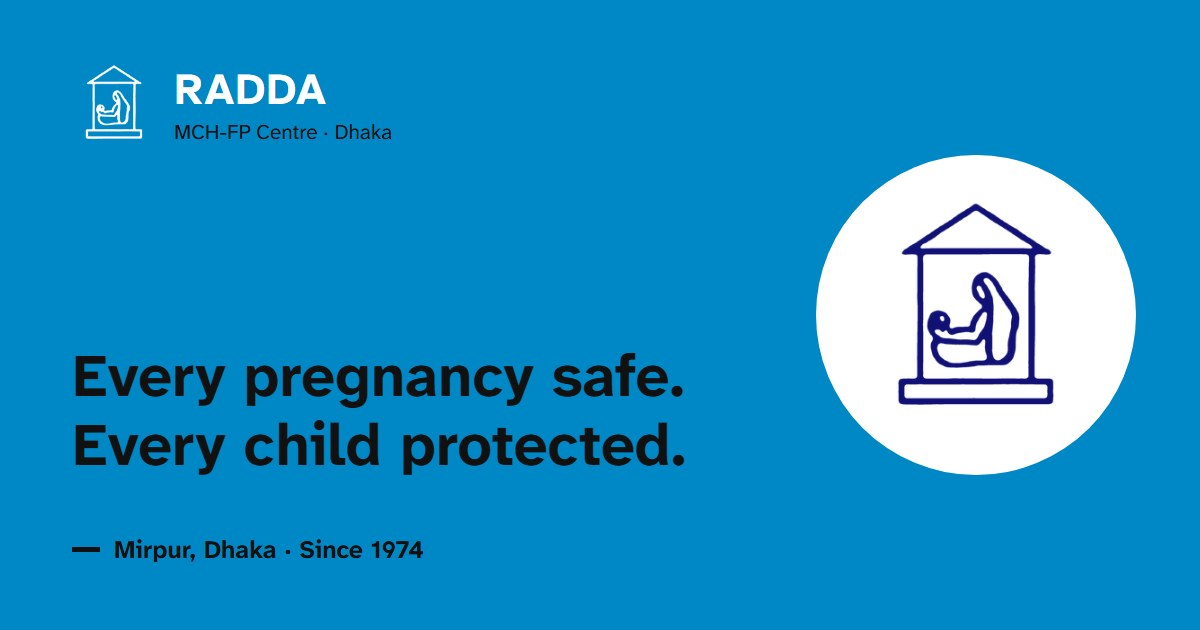
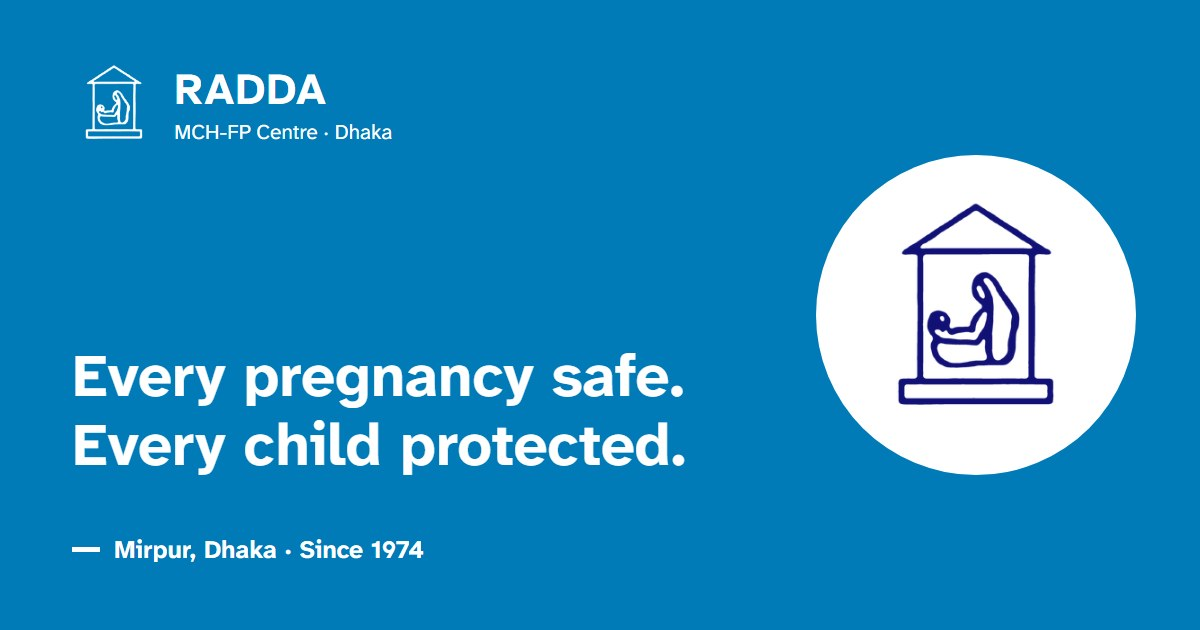
feat: white text on blue, and "Donate" in place of "Help rebuild Radda"
- Every blue surface (header band, hero panel, page headers, figure bands,
  footer, contact panel) now carries white text. The blue is a step deeper
  (#007bb8) so white text keeps a 4.6:1 contrast.
- The appeal button, links, slide and page title read "Donate"; in the
  header it is the accent button.
- Fix: the home page figures no longer overflow on phones in Bangla.

Changed region(s): [[0.0617, 0.5429, 0.5858, 0.754], [0.0617, 0.8444, 0.37, 0.9048], [0.1542, 0.181, 0.3392, 0.2413]]

diff --git a/src/assets/css/site.css b/src/assets/css/site.css
@@ -14,9 +14,12 @@
 
 /* 1. Tokens --------------------------------------------------------------- */
 :root {
-  --blue: #0087c5;            /* the brand colour; always carries black text, never white */
+  --blue: #007bb8;            /* the brand colour; it always carries white text */
   --blue-50: #e1f1f9;
-  --ink: #111111;
+  --black: #111111;
+  --ink: #111111;             /* text colour; white inside blue surfaces (see "White text on every blue surface") */
+  --hover-bg: var(--black);
+  --hover-fg: #fff;
   --body: #1f1f1f;
   --muted: #595959;
   --grey: #f1f1f1;            /* section background behind white cards */
@@ -58,7 +61,7 @@ table { border-collapse: collapse; width: 100%; }
 /* Black ring with a white halo: visible on white, on cyan and on the dark bar alike. */
 :focus-visible { outline: 3px solid var(--ink); outline-offset: 2px; box-shadow: 0 0 0 5px #fff; border-radius: 2px; }
 [hidden] { display: none !important; }
-::selection { background: var(--blue); color: var(--ink); }
+::selection { background: var(--blue); color: #fff; }
 
 .container { width: 100%; max-width: calc(var(--max) + var(--gutter) * 2); margin-inline: auto; padding-inline: var(--gutter); }
 .skip { position: absolute; left: 12px; top: -80px; z-index: 100; background: var(--ink); color: #fff; padding: 12px 18px; font-weight: 700; text-decoration: none; }
@@ -101,10 +104,10 @@ table { border-collapse: collapse; width: 100%; }
   transition: background-color .15s ease, color .15s ease, border-color .15s ease;
 }
 .btn svg { width: 1.1em; height: 1.1em; flex: none; }
-.btn-primary { background: var(--blue); border-color: var(--blue); color: var(--ink); }
+.btn-primary { background: var(--blue); border-color: var(--blue); color: #fff; }
 .btn-white { background: #fff; border-color: #fff; color: var(--ink); box-shadow: var(--card-shadow); }
 .btn-outline { border-color: var(--ink); color: var(--ink); background: transparent; }
-.btn-primary:hover, .btn-white:hover, .btn-outline:hover { background: var(--ink); border-color: var(--ink); color: #fff; }
+.btn-primary:hover, .btn-white:hover, .btn-outline:hover { background: var(--hover-bg); border-color: var(--hover-bg); color: var(--hover-fg); }
 .btn-accent { background: #fff; border-color: #fff; color: var(--accent); box-shadow: var(--card-shadow); }
 .btn-accent:hover { background: var(--accent); border-color: var(--accent); color: #fff; }
 .btn-wa { background: var(--wa); border-color: var(--wa); color: #fff; }
@@ -149,7 +152,7 @@ table { border-collapse: collapse; width: 100%; }
 .search-btn { display: none; place-items: center; }
 .js .search-btn { display: grid; }
 .search-btn svg { width: 24px; height: 24px; }
-.search-btn:hover, .menu-btn:hover { background: var(--ink); color: #fff; }
+.search-btn:hover, .menu-btn:hover { background: var(--hover-bg); color: var(--hover-fg); }
 .band-search, .menu-btn { display: none !important; }
 .menu-btn { position: relative; }
 .menu-btn span { position: absolute; left: 10px; right: 10px; height: 3px; background: currentColor; transition: transform .2s ease, top .2s ease; }
@@ -182,7 +185,7 @@ table { border-collapse: collapse; width: 100%; }
 .slide-panel .btn { margin-top: 8px; }
 .carousel-controls { position: absolute; right: 0; bottom: 0; width: calc(100% / 3); display: flex; align-items: center; gap: 8px; padding: 0 clamp(24px, 3vw, 44px) 28px; }
 .carousel-btn { flex: none; width: 40px; height: 40px; display: grid; place-items: center; border: 2.5px solid var(--ink); border-radius: var(--radius); background: transparent; color: var(--ink); cursor: pointer; transition: background-color .15s ease, color .15s ease; }
-.carousel-btn:hover { background: var(--ink); color: #fff; }
+.carousel-btn:hover { background: var(--hover-bg); color: var(--hover-fg); }
 .carousel-btn svg { width: 20px; height: 20px; }
 .carousel-btn[aria-pressed="true"] .i-pause, .carousel-btn[aria-pressed="false"] .i-play { display: none; }
 .dots { display: flex; gap: 8px; margin-left: auto; }
@@ -197,7 +200,7 @@ table { border-collapse: collapse; width: 100%; }
 a.q:hover { background: var(--grey); color: var(--body); }
 a.q:hover strong { text-decoration: underline; }
 a.q:focus-visible { outline-offset: -5px; box-shadow: none; }
-.q-ico { flex: none; width: 46px; height: 46px; border-radius: 50%; display: grid; place-items: center; background: var(--blue); color: var(--ink); }
+.q-ico { flex: none; width: 46px; height: 46px; border-radius: 50%; display: grid; place-items: center; background: var(--blue); color: #fff; }
 .q-ico svg { width: 22px; height: 22px; }
 .q.is-open .q-ico { background: var(--green-50); color: var(--green); }
 .q.is-closed .q-ico { background: var(--red-50); color: var(--red); }
@@ -225,7 +228,7 @@ a.q:focus-visible { outline-offset: -5px; box-shadow: none; }
 .card { position: relative; display: flex; flex-direction: column; color: inherit; text-decoration: none; overflow: hidden; }
 .card .photo { aspect-ratio: 4 / 3; }
 .card .body { display: flex; flex-direction: column; flex: 1; padding: 20px 20px 22px; }
-.card-ico, .svc-ico, .pin { flex: none; display: grid; place-items: center; border-radius: 50%; background: var(--blue); color: var(--ink); }
+.card-ico, .svc-ico, .pin { flex: none; display: grid; place-items: center; border-radius: 50%; background: var(--blue); color: #fff; }
 .card-ico { width: 52px; height: 52px; margin-bottom: 18px; }
 .card-ico svg { width: 26px; height: 26px; }
 .card h3 { margin-bottom: 10px; }
@@ -248,7 +251,7 @@ a.card:hover { color: inherit; }
 
 .figures-wrap { background: var(--blue); color: var(--ink); }
 .figures { display: grid; grid-template-columns: repeat(4, 1fr); }
-.figure { padding: 4px clamp(16px, 2.4vw, 32px); border-left: 2px solid rgba(17, 17, 17, .28); }
+.figure { padding: 4px clamp(16px, 2.4vw, 32px); border-left: 2px solid rgba(255, 255, 255, .45); }
 .figure:first-child { padding-left: 0; border-left: 0; }
 .figure .n { font-size: clamp(2.1rem, 3.9vw, 3.25rem); font-weight: 700; line-height: 1; color: var(--ink); font-variant-numeric: tabular-nums; }
 .figure .n sup { font-size: .5em; vertical-align: top; position: relative; top: .2em; }
@@ -284,7 +287,7 @@ a.card:hover { color: inherit; }
 .news-item:hover h3 a { text-decoration: underline; }
 .news-item p { margin: 0; font-size: 1rem; }
 /* Impact page: figures on white, stat cards, bar charts, funding, partners */
-.figures-foot { display: flex; flex-wrap: wrap; align-items: center; justify-content: space-between; gap: 12px 24px; margin-top: clamp(24px, 3vw, 36px); padding-top: 18px; border-top: 2px solid rgba(17, 17, 17, .28); font-size: 1rem; }
+.figures-foot { display: flex; flex-wrap: wrap; align-items: center; justify-content: space-between; gap: 12px 24px; margin-top: clamp(24px, 3vw, 36px); padding-top: 18px; border-top: 2px solid rgba(255, 255, 255, .45); font-size: 1rem; }
 .figures.on-white .figure { border-left-color: var(--line); }
 .figures.on-white .figure .n { color: var(--ink); box-shadow: inset 0 -.18em 0 var(--blue); display: inline-block; }
 .period { font-weight: 700; color: var(--ink); white-space: nowrap; }
@@ -405,8 +408,8 @@ a.card:hover { color: inherit; }
 .ward-group { margin-top: 18px; }
 .ward-group > b { display: block; margin-bottom: 8px; color: var(--ink); }
 .wards { display: flex; flex-wrap: wrap; gap: 8px; }
-.wards span { display: grid; place-items: center; width: 52px; height: 52px; background: var(--blue); color: var(--ink); font-weight: 700; font-size: 1.125rem; font-variant-numeric: tabular-nums; }
-.ward-group.south .wards span { background: var(--yellow); }
+.wards span { display: grid; place-items: center; width: 52px; height: 52px; background: var(--blue); color: #fff; font-weight: 700; font-size: 1.125rem; font-variant-numeric: tabular-nums; }
+.ward-group.south .wards span { background: var(--yellow); color: var(--black); }
 .staff-track { display: flex; height: 30px; margin: 14px 0 8px; }
 .students { display: grid; grid-template-columns: repeat(16, 1fr); gap: 4px; max-width: 440px; margin-top: 22px; }
 .student-women { background: var(--blue); }
@@ -470,7 +473,7 @@ a.card:hover { color: inherit; }
 .glance-side dd { display: flex; align-items: center; gap: 14px; }
 .glance-side .card-ico { margin: 0; width: 46px; height: 46px; }
 .glance-side .card-ico svg { width: 24px; height: 24px; }
-.cap-ico { display: inline-grid; place-items: center; width: 36px; height: 36px; margin-right: 10px; border-radius: 50%; background: var(--blue); color: var(--ink); vertical-align: middle; }
+.cap-ico { display: inline-grid; place-items: center; width: 36px; height: 36px; margin-right: 10px; border-radius: 50%; background: var(--blue); color: #fff; vertical-align: middle; }
 .cap-ico svg { width: 19px; height: 19px; }
 .target-head span { display: inline-flex; align-items: center; gap: 10px; }
 .mark { flex: none; display: grid; place-items: center; width: 24px; height: 24px; border-radius: 50%; background: var(--green); color: #fff; }
@@ -485,6 +488,21 @@ a.card:hover { color: inherit; }
 .infographic .targets li:first-child { border-top: 2px solid var(--ink); }
 .infographic .fund-row { padding: 18px 0 6px; border-top: 2px solid var(--ink); }
 .infographic .bar-track, .infographic .bars.wide-label .bar-track, .infographic .fund-track, .infographic .target-track { background: rgba(17, 17, 17, .1); }
+
+/* White text on every blue surface. Inside one, "ink" means white, so headings,
+   links, outlines and icons follow without a rule each; hovering turns a button
+   white with dark text instead of black with white. */
+.brand-band, .hero, .figures-wrap, .cta-photo, .band-wrap, .site-footer, .page-hero, .info-panel, .share-card, .notfound {
+  --ink: #fff; --body: #fff; --muted: rgba(255, 255, 255, .88); --link: #fff; --hover-bg: #fff; --hover-fg: var(--black);
+  color: #fff;
+}
+/* White islands inside a blue surface go back to dark text. */
+.btn-white, .btn-accent, .info-status, .urgent {
+  --ink: var(--black); --body: #1f1f1f; --muted: #595959; --hover-bg: var(--black); --hover-fg: #fff;
+}
+.info-status { color: var(--ink); }
+:is(.figures-wrap, .cta-photo, .band-wrap, .page-hero, .share-card) .eyebrow::before { background: #fff; }
+.info-panel table.hours th, .info-panel table.hours td { border-bottom-color: rgba(255, 255, 255, .4); }
 
 .news-item .go { width: 40px; height: 40px; display: grid; place-items: center; color: var(--ink); }
 .news-item .go svg { width: 22px; height: 22px; }
@@ -507,7 +525,7 @@ a.card:hover { color: inherit; }
 .band h2 { font-size: clamp(1.75rem, 2.9vw, 2.5rem); margin-bottom: 8px; }
 .band p { margin: 0; max-width: 44ch; }
 
-.site-footer { background: var(--blue); color: var(--ink); font-size: 1rem; border-top: 1px solid rgba(17, 17, 17, .25); }
+.site-footer { background: var(--blue); font-size: 1rem; border-top: 1px solid rgba(255, 255, 255, .35); }
 .site-footer .top { display: grid; grid-template-columns: 1.5fr 1fr 1fr 1.2fr; gap: clamp(24px, 4vw, 56px); padding-block: clamp(36px, 5vw, 60px) 36px; }
 .site-footer .logo-text strong { color: #fff; }
 .site-footer .top > div:first-child p { margin: 18px 0 20px; max-width: 34ch; }
@@ -516,10 +534,10 @@ a.card:hover { color: inherit; }
 .site-footer a { color: var(--ink); text-decoration: none; }
 .site-footer a:hover { text-decoration: underline; }
 .social { display: flex; gap: 8px; }
-.social a { width: 42px; height: 42px; border-radius: 50%; display: grid; place-items: center; background: var(--ink); color: #fff; }
-.social a:hover { background: #fff; color: var(--ink); }
+.social a { width: 42px; height: 42px; border-radius: 50%; display: grid; place-items: center; background: #fff; color: var(--blue); }
+.social a:hover { background: var(--black); color: #fff; }
 .social svg { width: 20px; height: 20px; fill: currentColor; }
-.site-footer .bottom { display: flex; flex-wrap: wrap; justify-content: space-between; gap: 8px 24px; padding-block: 18px; border-top: 1px solid rgba(17, 17, 17, .3); font-size: .875rem; }
+.site-footer .bottom { display: flex; flex-wrap: wrap; justify-content: space-between; gap: 8px 24px; padding-block: 18px; border-top: 1px solid rgba(255, 255, 255, .35); font-size: .875rem; }
 .mbar { display: none; }
 
 /* 8. Inner pages ---------------------------------------------------------- */
@@ -573,13 +591,13 @@ table.data td:first-child { font-weight: 700; color: var(--ink); }
 .pin { width: 46px; height: 46px; }
 .pin svg { width: 22px; height: 22px; }
 .place .pin { margin-bottom: 18px; }
-.place:first-child .pin { background: var(--yellow); }
+.place:first-child .pin { background: var(--yellow); color: var(--black); }
 .place h3 { margin-bottom: 6px; }
 .place p { margin: 0; font-size: 1rem; }
 .trustees-note { margin-top: 14px; }
 .people { display: grid; grid-template-columns: repeat(2, minmax(0, 1fr)); gap: 14px; }
 .person { display: flex; align-items: center; gap: 16px; padding: 14px 18px; }
-.person i { flex: none; width: 56px; height: 56px; border-radius: 50%; display: grid; place-items: center; background: var(--blue); color: var(--ink); font-size: .95rem; font-weight: 700; font-style: normal; }
+.person i { flex: none; width: 56px; height: 56px; border-radius: 50%; display: grid; place-items: center; background: var(--blue); color: #fff; font-size: .95rem; font-weight: 700; font-style: normal; }
 .person img { flex: none; width: 56px; height: 56px; border-radius: 50%; object-fit: cover; background: var(--grey); }
 .person strong { display: block; font-size: 1.0625rem; line-height: 1.3; color: var(--ink); }
 .person span { font-size: .9375rem; color: var(--muted); }
@@ -598,7 +616,7 @@ table.data td:first-child { font-weight: 700; color: var(--ink); }
 .form-card > p { color: var(--muted); max-width: 58ch; margin-bottom: 24px; }
 .fieldset { border: 0; padding: 0; margin: 0 0 24px; min-width: 0; }
 .fieldset legend, .field label { display: block; padding: 0; font-weight: 700; font-size: 1rem; line-height: 1.3; color: var(--ink); margin-bottom: 10px; }
-.step { display: inline-grid; place-items: center; width: 26px; height: 26px; border-radius: 50%; background: var(--blue); color: var(--ink); font-size: .85rem; font-weight: 700; margin-right: 10px; vertical-align: 1px; }
+.step { display: inline-grid; place-items: center; width: 26px; height: 26px; border-radius: 50%; background: var(--blue); color: #fff; font-size: .85rem; font-weight: 700; margin-right: 10px; vertical-align: 1px; }
 .req { color: var(--red); }
 .opt-grid { display: grid; grid-template-columns: repeat(3, minmax(0, 1fr)); gap: 10px; }
 .opt-grid.two { grid-template-columns: repeat(2, minmax(0, 1fr)); }
@@ -702,7 +720,7 @@ table.hours tr.today th, table.hours tr.today td { font-weight: 700; box-shadow:
 .notfound .page-hero { min-height: 100vh; display: grid; align-items: center; }
 .notfound .logo { margin-bottom: 32px; }
 .notfound .actions { margin-top: 20px; }
-.notfound .bn-text { margin-top: 36px; padding-top: 28px; border-top: 1px solid rgba(17, 17, 17, .3); }
+.notfound .bn-text { margin-top: 36px; padding-top: 28px; border-top: 1px solid rgba(255, 255, 255, .4); }
 .notfound .bn-text h2 { margin-bottom: 10px; }
 .bn-text { font-family: "Noto Sans Bengali", "Nirmala UI", sans-serif; line-height: 1.7; }
 .bn-text :is(h2, .btn) { font-family: inherit; line-height: 1.4; }
@@ -779,7 +797,7 @@ html:lang(bn) [lang="en"] { font-family: "Atkinson Hyperlegible Next", "Segoe UI
   .cards { grid-template-columns: repeat(2, minmax(0, 1fr)); }
   .partners, .partner-list.two, .news-home, .glance, .mix, .vaccine-groups, .people-grid, .tools-grid, .tools-teaser { grid-template-columns: minmax(0, 1fr); }
   .waffle { max-width: 440px; }
-  .figures { grid-template-columns: 1fr 1fr; gap: 30px 0; }
+  .figures { grid-template-columns: minmax(0, 1fr) minmax(0, 1fr); gap: 30px 0; }
   .figure:nth-child(odd) { padding-left: 0; border-left: 0; }
   .site-footer .top { grid-template-columns: 1fr 1fr; }
   .site-footer .top > div:first-child { grid-column: 1 / -1; }
@@ -797,6 +815,7 @@ html:lang(bn) [lang="en"] { font-family: "Atkinson Hyperlegible Next", "Segoe UI
 
 @media (max-width: 720px) {
   body { font-size: 1rem; padding-bottom: 60px; }
+  .figure .n { font-size: clamp(1.6rem, 7vw, 2.4rem); }
   .bars li { grid-template-columns: 4.4em minmax(0, 1fr) 4.8em; gap: 8px; font-size: .875rem; }
   .bars.wide-label li { grid-template-columns: 8.2em minmax(0, 1fr) 3.8em; }
   .mix-legend { grid-template-columns: minmax(0, 1fr); }
@@ -825,7 +844,7 @@ html:lang(bn) [lang="en"] { font-family: "Atkinson Hyperlegible Next", "Segoe UI
   .mbar a { display: flex; align-items: center; justify-content: center; gap: 8px; min-height: 56px; color: #fff; text-decoration: none; font-weight: 700; font-size: .9375rem; line-height: 1.2; border-left: 1px solid rgba(255, 255, 255, .25); }
   .mbar a:first-child { border-left: 0; }
   .mbar a svg { width: 19px; height: 19px; }
-  .mbar a:last-child { background: var(--blue); color: var(--ink); border-left: 0; }
+  .mbar a:last-child { background: var(--blue); color: #fff; border-left: 0; }
 }
 
 @media (max-width: 420px) {

diff --git a/src/_data/appeal.js b/src/_data/appeal.js
@@ -1,4 +1,4 @@
-// The "Help rebuild Radda" appeal, as the pages use it. Staff edit appealSettings.json
+// The "Donate" appeal, as the pages use it. Staff edit appealSettings.json
 // through the editing screen. A giving channel only appears on the page once its
 // details are complete, so a half-filled form never shows a partial account number.
 const settings = require("./appealSettings.json");

diff --git a/tools/make_share_images.py b/tools/make_share_images.py
@@ -39,18 +39,18 @@ CARD_HTML = """<!DOCTYPE html>
 <link href="https://fonts.googleapis.com/css2?family=Atkinson+Hyperlegible+Next:wght@400;700&family=Noto+Sans+Bengali:wght@400;700&display=block" rel="stylesheet">
 <style>
   * { box-sizing: border-box; margin: 0; }
-  body { width: 1200px; height: 630px; overflow: hidden; background: #0087c5; }
-  .card { position: relative; width: 1200px; height: 630px; overflow: hidden; color: #111; padding: 64px 72px; font-family: __FONT__; background: #0087c5; }
+  body { width: 1200px; height: 630px; overflow: hidden; background: #007bb8; }
+  .card { position: relative; width: 1200px; height: 630px; overflow: hidden; color: #fff; padding: 64px 72px; font-family: __FONT__; background: #007bb8; }
   .disc { position: absolute; right: 64px; top: 50%; width: 320px; height: 320px; margin-top: -160px; border-radius: 50%; background: #fff; display: grid; place-items: center; }
   .disc img { width: 230px; height: 230px; }
   .brand { display: flex; align-items: center; gap: 18px; }
   .brand img { width: 84px; height: 84px; }
   .brand b { display: block; font-size: 44px; line-height: 1.1; letter-spacing: __TRACK__; font-weight: __BOLD__; color: #fff; }
-  .brand span { display: block; font-size: 21px; line-height: 1.3; color: #111; margin-top: 4px; }
+  .brand span { display: block; font-size: 21px; line-height: 1.3; color: #fff; margin-top: 4px; }
   h1 { position: absolute; left: 72px; bottom: 150px; width: 700px; font-size: __SIZE__; line-height: __LEAD__; letter-spacing: __HTRACK__; font-weight: __BOLD__; }
   h1 em { font-style: normal; }
-  .foot { position: absolute; left: 72px; bottom: 64px; display: flex; align-items: center; gap: 14px; font-size: 25px; font-weight: 700; color: #111; }
-  .foot i { width: 28px; height: 5px; background: #111; }
+  .foot { position: absolute; left: 72px; bottom: 64px; display: flex; align-items: center; gap: 14px; font-size: 25px; font-weight: 700; color: #fff; }
+  .foot i { width: 28px; height: 5px; background: #fff; }
 </style></head><body>
 <div class="card">
   <div class="disc"><img src="__LOGO_INK__" alt=""></div>

diff --git a/docs/STAFF-GUIDE.md b/docs/STAFF-GUIDE.md
@@ -45,9 +45,9 @@ Use only photos that belong to Radda, and only where the people in them have agr
 
 ## Adding the centre's bank or bKash details
 
-Open **Rebuild appeal**. Type the bank account name, bank, branch and account number, and the bKash or Nagad number if there is one, then press **Save**. They appear on the "Help rebuild Radda" page. Check every digit twice before saving: donors will send money to exactly what is written here.
+Open **Rebuild appeal**. Type the bank account name, bank, branch and account number, and the bKash or Nagad number if there is one, then press **Save**. They appear on the "Donate" page. Check every digit twice before saving: donors will send money to exactly what is written here.
 
-To take the appeal page down, switch off **Show the "Help rebuild Radda" page** and press **Save**.
+To take the appeal page down, switch off **Show the "Donate" page** and press **Save**.
 
 ## If something looks wrong
 
@@ -104,7 +104,7 @@ Nothing you do here can break the website. If a save contains a mistake the site
 
 **Rebuild appeal** খুলুন। ব্যাংক হিসাবের নাম, ব্যাংক, শাখা ও হিসাব নম্বর লিখুন, আর বিকাশ বা নগদ নম্বর থাকলে সেটিও লিখুন। এরপর **Save** চাপুন। তথ্যগুলো "রাড্ডা আবার গড়তে সাহায্য করুন" পাতায় দেখাবে। সেভ করার আগে প্রতিটি সংখ্যা দুবার মিলিয়ে নিন: এখানে যা লেখা থাকবে, দাতারা ঠিক সেখানেই টাকা পাঠাবেন।
 
-পাতাটি সরিয়ে নিতে চাইলে **Show the "Help rebuild Radda" page** বন্ধ করে **Save** চাপুন।
+পাতাটি সরিয়ে নিতে চাইলে **Show the "Donate" page** বন্ধ করে **Save** চাপুন।
 
 ## কিছু ভুল মনে হলে
 

diff --git a/README.md b/README.md
@@ -60,10 +60,10 @@ New items go at the **end** of the file. The site shows the last item first, and
 
 ## The rebuild appeal
 
-`rebuild.html` (and `bn/rebuild.html`) is the "Help rebuild Radda" page about the September 2026 attack on the Mirpur-1 centre.
+`rebuild.html` (and `bn/rebuild.html`) is the "Donate" page about the September 2026 attack on the Mirpur-1 centre.
 
 - **Giving details.** Until the centre adds its accounts, the page asks people to contact the office. Once the bank details or a bKash or Nagad number are entered under **Rebuild appeal** in the staff editing screen, they appear on the page with a copy button. Bank details show only when the account name, bank and account number are all filled in, so a half-finished form never shows a partial number.
-- **Switching it off.** Turn off "Show the Help rebuild Radda page" in the same form. The page, every link to it, and its search and sitemap entries all disappear on the next build.
+- **Switching it off.** Turn off "Show the Donate page" in the same form. The page, every link to it, and its search and sitemap entries all disappear on the next build.
 - **The facts on the page.** Every figure carries a small number pointing to a published report listed at the bottom. The wording is in `src/_data/i18n/en.json` and `bn.json` under `rebuild`. Change a fact only together with its source, and update the "Last checked" date. The situation at the centre is changing, so the "What is still missing" list in particular should be reviewed by the centre.
 - **Who can edit it.** Anyone invited to the staff editing screen can change the account numbers shown to donors. Invite only people the centre trusts with that.
 
